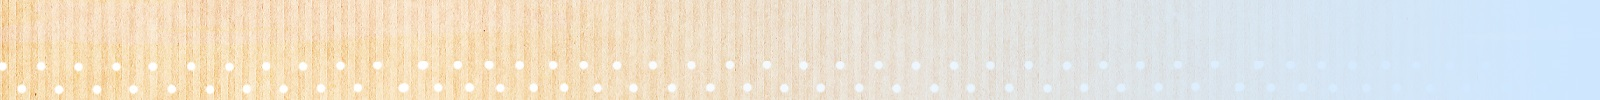
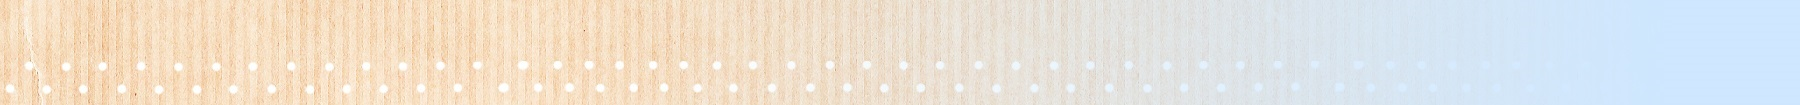
size img home and remerciements(text)

diff --git a/src/styles/css/style.css b/src/styles/css/style.css
@@ -3,10 +3,20 @@
   src: url("../fonts/Adlery_TRIAL.ttf") format("truetype");
 }
 
+@font-face {
+    font-family: "Gill";
+    src: url("../fonts/copyfonts.com_gill-sans-light.ttf") format("truetype");
+}
+
+@font-face {
+    font-family: "Gill Sans STD";
+    src: url("../fonts/GillSansStd.otf") format("truetype");
+}
+
 body {
   width: 100%;
   background-color: white;
-  font-family: "Gill Sans MT";
+  font-family: "Gill Sans STD";
   font-size:16px;
 }
 
@@ -55,7 +65,7 @@ body {
     overflow: visible;
     position: relative;
     font-size: 25px;
-    font-family: "Gill Sans MT";
+    font-family: "Gill Sans STD";
     margin-top: 20px;
 }
 
@@ -108,14 +118,6 @@ padding: 20px;
   margin: 0 0 30px 20px;
 }
 
-/*.line {
-    width: 14px;
-    height:100%;
-    position:absolute;
-    margin-left: 10%;
-    background: url("../images/ligne-noire.png") repeat-y;
-}*/
-
 .App-contain hr {
   margin-left: 15%;
 }
@@ -149,7 +151,7 @@ padding: 20px;
     font-weight: bold;
     font-size: 30px;
     margin: 0 0 0 0;
-    padding: 5px 5px 5px 15px;
+    padding: 4px 5px 4px 15px;
 }
 
 .content-bloc-line {
@@ -172,20 +174,26 @@ padding: 20px;
 
 @media only screen and (max-width: 675px) {
     .img-background {
-        height: calc(100% - 50px) !important;
+       /* height: calc(100% - 50px) !important;*/
+        height: 100% !important;
     }
 }
 
 .img-background {
-    height: calc(100% - 146px);
+   /* height: calc(100% - 146px);*/
+    height: 100%;
     width: 100%;
-    position: absolute;
-    z-index: 1;
+/*position: absolute;
+z-index: 1;*/
 }
 
 /*****************/
 /** Page : RSVP **/
 /*****************/
+
+.Rsvp-row {
+    /*display: flex;*/
+}
 
 .img-background-form {
     display: block;
@@ -193,6 +201,10 @@ padding: 20px;
     width: 100%;
     max-width: 700px;
     border: 2px solid #222222;
+}
+
+.col-buttons {
+    margin: auto 0;
 }
 
 .content-button {
@@ -269,10 +281,37 @@ padding: 20px;
     .Thankyou {
         margin-top: 30px;
     }
+
+    .img-background-thank {
+        /*height: calc(100% - 46px);*/
+    }
+}
+
+.img-background-thank {
+   /* height: calc(100% - 146px);*/
+    width: 100%;
+    position: absolute;
+    z-index: 1;
 }
 
 .Thankyou h1 {
     color: #222222;
+}
+
+.Thankyou h2 {
+    text-align: center;
+}
+
+.Thankyou a, .Thankyou a:visited {
+    color: #90c3ea;
+}
+
+.content-thank {
+    text-align: justify;
+    margin: 30px 0 30px 0;
+    padding: 10px;
+    background-color: white;
+    border-radius: 10px;
 }
 
 .App-contain .Thankyou {
@@ -290,27 +329,25 @@ padding: 20px;
 /** Home **/
 /**********/
 
-@media only screen and (min-width: 1600px) {
-    #desktop {
-        display: none !important;
-    }
-
-    .Home {
-        margin-top: 100px;
-        height: 1016px !important;
-        width: 1600px !important;
-        background: linear-gradient(to right, transparent 90%, white),
-        url("../images/background_1.jpg") no-repeat !important;
+@media only screen and (max-width: 1300px) {
+    .App-content-home {
+        display: table-cell;
+        vertical-align:middle;
     }
 }
 
 @media only screen and (max-width: 675px) {
     .Home {
-        margin-top: 50px !important;
+      margin-top: 50px !important;
     }
 }
 
 @media only screen and (max-width: 510px) {
+
+    .Home {
+        margin: 50px auto 0 auto !important;
+       /* margin-top: 50px !important;*/
+    }
 
     #mobile {
         display: block !important;
@@ -319,18 +356,40 @@ padding: 20px;
     #desktop {
         display: none !important;
     }
+
+    .App-content-home {
+        display: flex;
+    }
+
+    .img-background {
+        width: unset;
+    }
+}
+
+.App-content-home {
+    height: 100vh;
+    width: 100%;
+    background: #cee6fe url("../images/background.jpg") repeat-y fixed;
 }
 
 .Home {
     margin-top: 100px;
+    background: #cee6fe url("../images/background.jpg") repeat-y fixed;
 }
 
 #mobile {
     display: none;
+    margin: 0 auto;
+    height: 100%;
+    max-width: 510px;
+    max-height: 981px;
 }
 
 #desktop {
     display: block;
+    margin: 0 auto;
+    max-width: 1500px;
+    max-height: 916px;
 }
 
 /************/
@@ -353,7 +412,7 @@ padding: 20px;
   display: grid;
   left: 0;
   bottom: 0;
-  z-index: 9999;
+  z-index: 9000;
 }
 
 .App-footer-copyright {

diff --git a/src/js/pages/Thankyou.js b/src/js/pages/Thankyou.js
@@ -5,28 +5,36 @@ import Col from 'muicss/lib/react/col';
 import '../../styles/css/style.css';
 import background from '../../styles/images/background_5.jpg';
 import heart from '../../styles/images/keur.png';
-
+// <img src={background} className="img-background-thank" />
 class Thankyou extends Component {
     render() {
         return (
-            <div>
-                <img src={background} className="img-background" />
-                <div className="App-contain" id={"thank-contain"}>
-                    <div className="Thankyou">
+<div><img src={background} className="img-background-thank" />
+
+
+    <div className="App-contain" id={"thank-contain"}>
+                     <div className="Thankyou">
                         <h1>Remerciements</h1>
                         <div className="content-bloc">
                             <Container>
                                 <Row>
-                                    <Col md="12">
+                                    <Col md="12" className="content-thank">
+                                        <h2>Nous remercions du fond du coeur :</h2>
+                                        <b>Marion Pradet</b> la dessinatrice du site. C'est une graphiste qui a beaucoup de talents ! Je vous invite à regarder de plus près ce qu'elle fait sur <a href={"https://marionpradet.myportfolio.com/"} target={"_blank"}>son portfolio</a><br />
+                                        <br />
+                                        <b>Emma Aubert alias Mighty Mama</b> qui retouche toutes les photos. Elle réalise de très jolis dessins d'animaux (également sur objets) et peut réaliser des dessins de vos petits animaux préférés sur commande. Venez faire un tour sur <a href={"https://www.facebook.com/Emma-Auber-Mighty-Mama-Cr%C3%A9a-340924696007047/"} target={"_blank"}>sa page Facebook</a> pour en savoir plus<br />
+                                        <br />
+                                        <b>Arthur Cavagné</b> qui rédige les articles du blog. C'est également un grand dessinateur (sau sens propre comme au figuré) ! <a href={"https://www.facebook.com/artcavagne/)"} target={"_blank"}>Voici sa page Facebook</a>. Il est aussi l'illustrateur du jeu de rôle : "<a href={"https://www.facebook.com/lesroyaumes/"} target="_blank">Les royaumes de Midgard</a>", qui est basé sur la mythologie Scandinave et Viking. A tester et adopter absolument !<br />
+                                        <br />
                                         <img src={heart} className="img-coeur" />
-                                        Merci tousa toussa
+                                        <h2>Merci pour votre implication !</h2>
                                     </Col>
                                 </Row>
                             </Container>
                         </div>
                     </div>
-                </div>
-            </div>
+                </div></div>
+
         );
     }
 }

diff --git a/src/js/pages/Form.js b/src/js/pages/Form.js
@@ -56,11 +56,11 @@ class Form extends React.Component {
                 <div className="content-bloc-line">
                     <div className="content-bloc">
                         <Container fluid={true}>
-                            <Row>
+                            <Row className="Rsvp-row">
                                 <Col md="8">
                                     <img src={background} className="img-background-form" alt={"disney"} />
                                 </Col>
-                                <Col md="4">
+                                <Col md="4" className="col-buttons">
                                     <div className="content-button">
                                         <Button color="primary" onClick={() => { this.showContent("address") }}>
                                             Renseigner mon adresse
@@ -81,7 +81,7 @@ class Form extends React.Component {
                             <ToastContainer/>
                             <div className="bloc">
                                 <br/>
-                                Veuillez remplir le formulaire ci-dessous pour recevoir votre fair-part:
+                                Veuillez remplir le formulaire ci-dessous pour recevoir votre faire-part:
                                 <form onSubmit={this.onSubmit} id="rsvp-form">
                                     <Input type="text" name="lastName" label="Nom*" floatingLabel={true}
                                            onChange={this.handleInputChange} value={this.state.lastName} required/>

diff --git a/src/js/templates/Header.js b/src/js/templates/Header.js
@@ -11,9 +11,11 @@ import MdFavoriteOutline from 'react-icons/lib/md/favorite-outline';
 import '../../styles/css/style.css';
 import '../../styles/css/react-burger-menu.css';
 
-let isMenuOpen = function(state) {
-    return state.isOpen;
-};
+let state = { menuOpen: false };
+
+function handleStateChange (state) {
+    state = {menuOpen: state.isOpen};
+}
 
 let path = function() {
     return  window.location.pathname;
@@ -27,10 +29,11 @@ const Header = () => (
                 <li><Link className={window.location.pathname === '/follow' ? 'active' : '' } to="/follow">Suivez-nous</Link></li>
                 <li><Link className={window.location.pathname === '/infos' ? 'active' : '' } to="/infos">Infos</Link></li>
                 <li><Link className={window.location.pathname === '/find' ? 'active' : '' } to="/find">Nous trouver</Link></li>
-                <li><Link className={window.location.pathname === '/rsvp' ? 'active' : '' } to="/form">RSVP</Link></li>
+                <li><Link className={window.location.pathname === '/rsvp' ? 'active' : '' } to="/rsvp">RSVP</Link></li>
             </ul>
         </nav>
-        <Menu onStateChange={ isMenuOpen }>
+        <Menu isOpen={state.menuOpen}
+              onStateChange={(state) => handleStateChange(state)}>
             <Link className={path() === '/' ? 'active' : '' } to="/">
                 <MdHome /> <span>Accueil</span>
             </Link>

diff --git a/src/js/templates/Footer.js b/src/js/templates/Footer.js
@@ -3,10 +3,11 @@ import { Link } from 'react-router-dom';
 import alliances from '../../styles/images/alliances-transparent.png';
 import '../../styles/css/style.css';
 
+// style={window.location.pathname === '/' ? {background: 'transparent' } : {} }
 const Footer = () => (
     <footer className="App-footer">
-        <div className="App-footer-weeding"><span>MARIAGE</span> <img alt="" src={alliances}  /> <span>08.07.2019</span></div>
-        <div className="App-footer-copyright">Designed by Marion Pradet© powered by Bénédicte Lodovici™ All rights reserved | <Link to="/thankyou">Remerciements</Link></div>
+        <div className="App-footer-weeding"><span>MARIAGE</span> <img alt="" src={alliances}  /> <span>??.07.2019</span></div>
+        <div className="App-footer-copyright">Designed by Marion Pradet powered by Bénédicte Lodovici All rights reserved | <Link to="/thankyou">Remerciements</Link></div>
     </footer>
 );
 

diff --git a/src/js/pages/Home.js b/src/js/pages/Home.js
@@ -6,9 +6,11 @@ import '../../styles/css/style.css';
 class Home extends Component {
     render() {
         return (
-            <div className="Home">
-                <img id={"desktop"} src={background} className="img-background" />
-                <img id={"mobile"} src={mobile} className="img-background" />
+            <div className="App-content-home">
+                    <div className="Home">
+                        <img id={"desktop"} src={background} className="img-background" />
+                        <img id={"mobile"} src={mobile} className="img-background" />
+                    </div>
             </div>
         );
     }

diff --git a/src/styles/css/react-burger-menu.css b/src/styles/css/react-burger-menu.css
@@ -1,10 +1,10 @@
 /* Position and sizing of burger button */
 .bm-burger-button {
     position: fixed;
-    width: 36px;
-    height: 30px;
+    width: 30px;
+    height: 24px;
     left: 10px;
-    top: 10px;
+    top: 14px;
 }
 
 /* Color/shape of burger icon bars */
